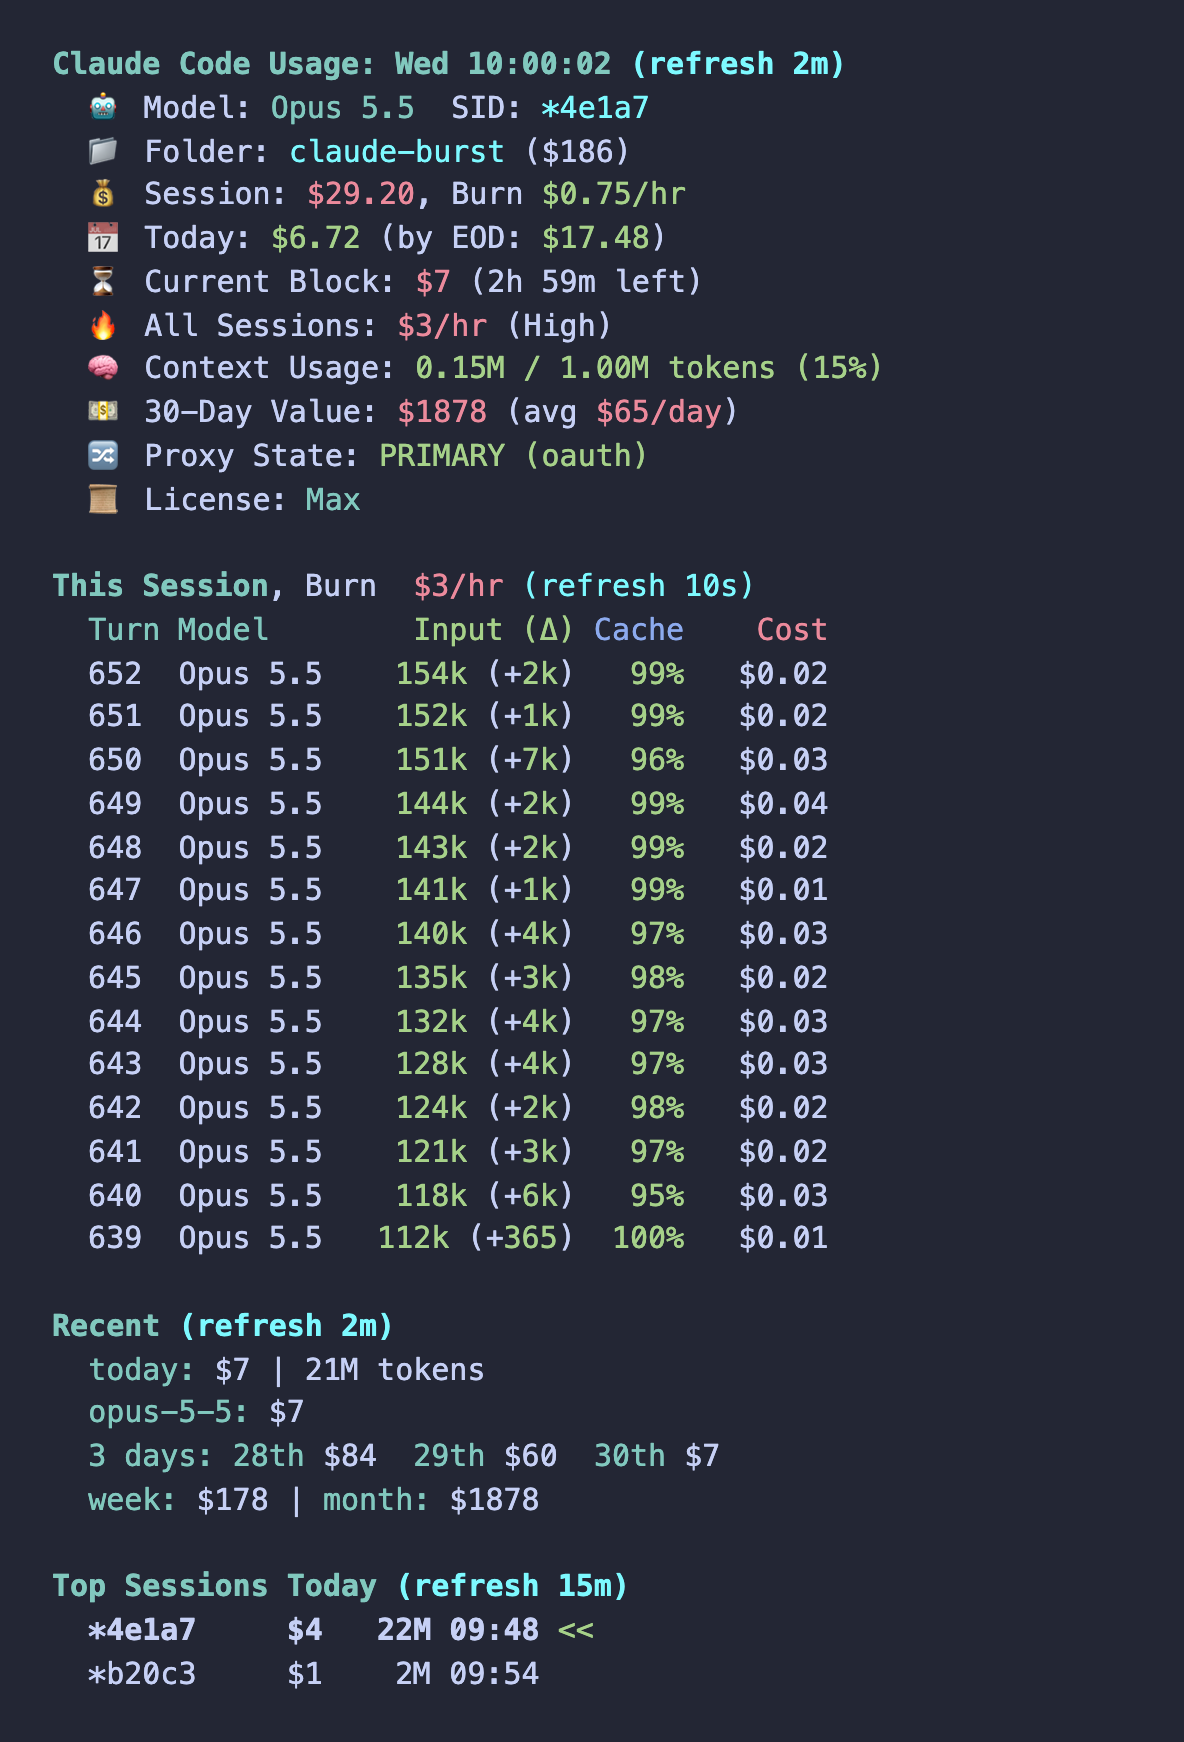
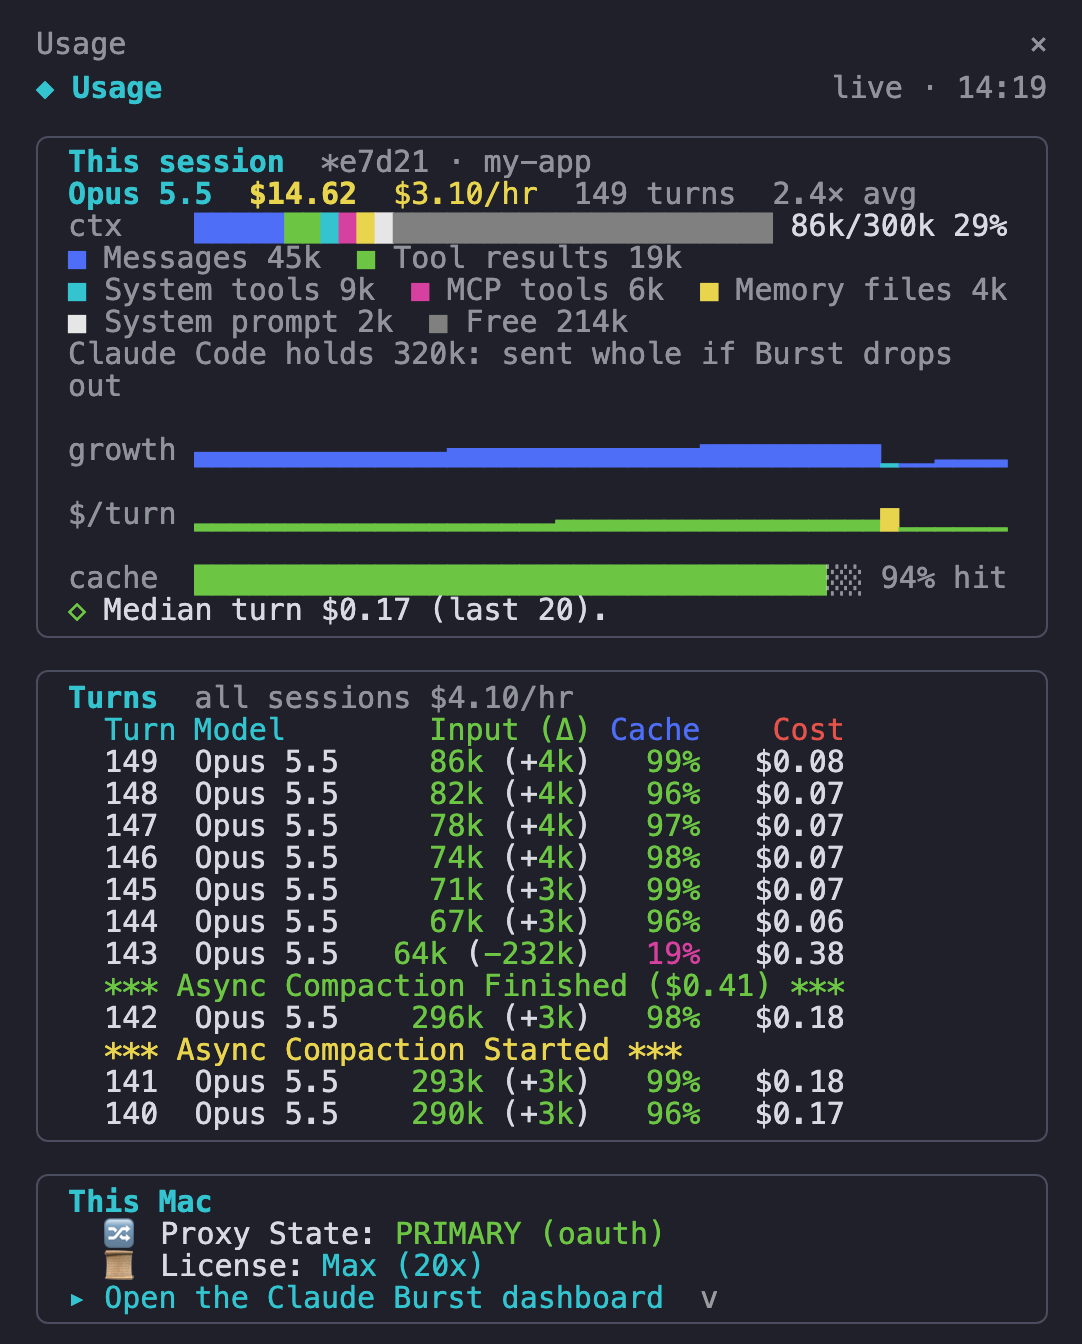
Dashboard, Usage panel: the panel is a Claude Code mod (a sidebar) and Burst's companion, with the sidebar's screenshot in place of the split's

diff --git a/internal/admin/admin.html b/internal/admin/admin.html
@@ -1528,10 +1528,10 @@
     <h2>Usage panel <span class="applies" data-where="~/.local/bin, ~/.zshrc, settings.json" data-when="next session"></span></h2>
     <div class="body">
       <div class="mac-panel">
-        <a href="/docs/usage-panel.png" target="_blank" class="mac-shot" title="Open full size"><img src="/docs/usage-panel.png" alt="The usage panel beside a Claude Code session: model, session and today's cost, context usage, the turn table with each turn's context, cache hit rate and cost" loading="lazy"></a>
+        <a href="/docs/usage-panel.png" target="_blank" class="mac-shot" title="Open full size"><img src="/docs/usage-panel.png" alt="The usage panel's sidebar in a Claude Code session: model, session cost and burn rate, the context Burst sends by part against its compaction limit, graphs per turn, the turn table with a compaction's Started and Finished rows, and Proxy State" loading="lazy"></a>
         <div>
-          <div class="hint" style="font-size:13.5px;line-height:1.55">A live panel in a split beside Claude Code (Ghostty): the session's cost and burn rate, context used, a row per turn with its context, cache hit rate and cost, and markers where Burst compacted. It is a separate open source project, <a href="https://github.com/andrewbakercloudscale/claudecode-cost-usage-panel" target="_blank" rel="noopener">claudecode-cost-usage-panel</a>.
-            <br><br>Installing adds scripts to <code>~/.local/bin</code>, a block to <code>~/.zshrc</code> that opens the split when you run <code>claude</code>, and two hooks to <code>~/.claude/settings.json</code>. Removing takes all of that out again (backups of the files it edits are kept beside them). Needs Ghostty, <code>jq</code> and Node.js.</div>
+          <div class="hint" style="font-size:13.5px;line-height:1.55">A live panel beside Claude Code: the session's cost and burn rate, the context Burst sends, a row per turn with its context, cache hit rate and cost, and markers where Burst compacted. On Claude Code 2.1.287 or later it is a mod, a sidebar drawn inside the session in any terminal; on older versions it is a Ghostty split. It is a separate open source project, Burst's companion: <a href="https://github.com/andrewbakercloudscale/claudecode-cost-usage-panel" target="_blank" rel="noopener">claudecode-cost-usage-panel</a>. The figures in the picture are made up.
+            <br><br>Installing adds scripts to <code>~/.local/bin</code>, the usage-panel mod to Claude Code, a block to <code>~/.zshrc</code> that opens the split where there is no mod, and two hooks to <code>~/.claude/settings.json</code>. Removing takes all of that out again (backups of the files it edits are kept beside them). Needs <code>jq</code> and Node.js; the split also needs Ghostty or tmux.</div>
           <div id="panelStatus" style="margin:10px 0"></div>
           <div class="row">
             <button class="primary" id="panelInstall">&#x2913; Install the panel</button>

diff --git a/internal/admin/mac.go b/internal/admin/mac.go
@@ -571,7 +571,8 @@ func (s *Server) handleMac(w http.ResponseWriter, r *http.Request) {
 	writeJSON(w, map[string]any{"keep_awake": s.readKeepAwake(), "panel": s.readPanel()})
 }
 
-// A masked frame of the panel (dollar figures scaled, ids replaced).
+// The panel's sidebar, drawn from made-up figures by the panel repo's
+// docs/render-screenshots.mjs (its docs/sidebar-top.png).
 //
 //go:embed assets/usage-panel.png
 var panelShot []byte
